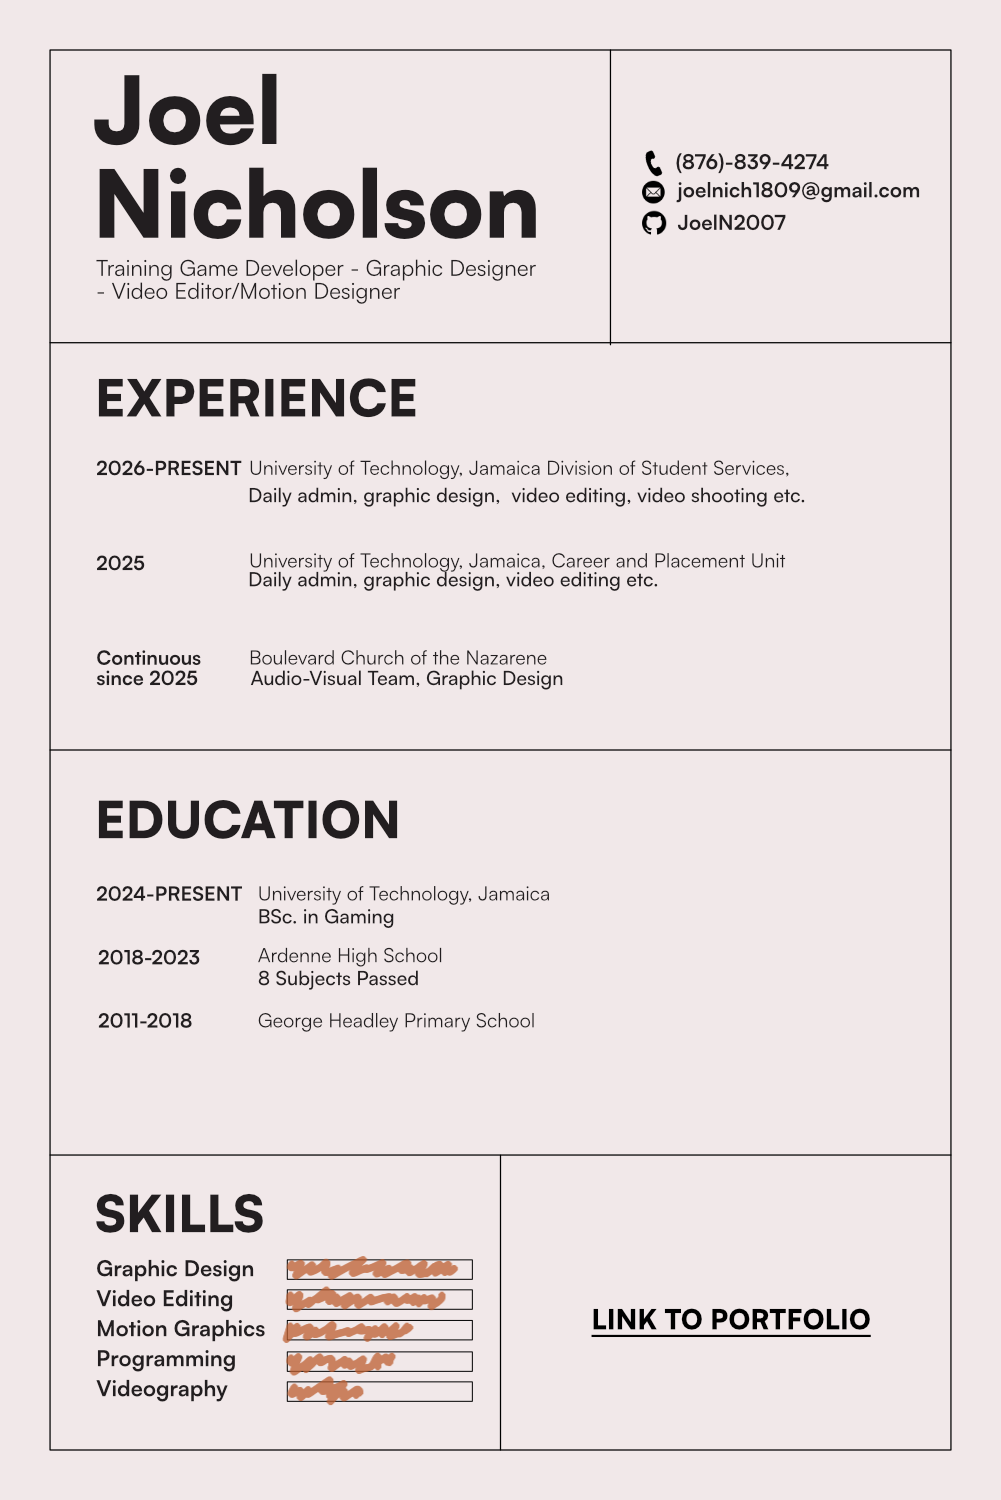
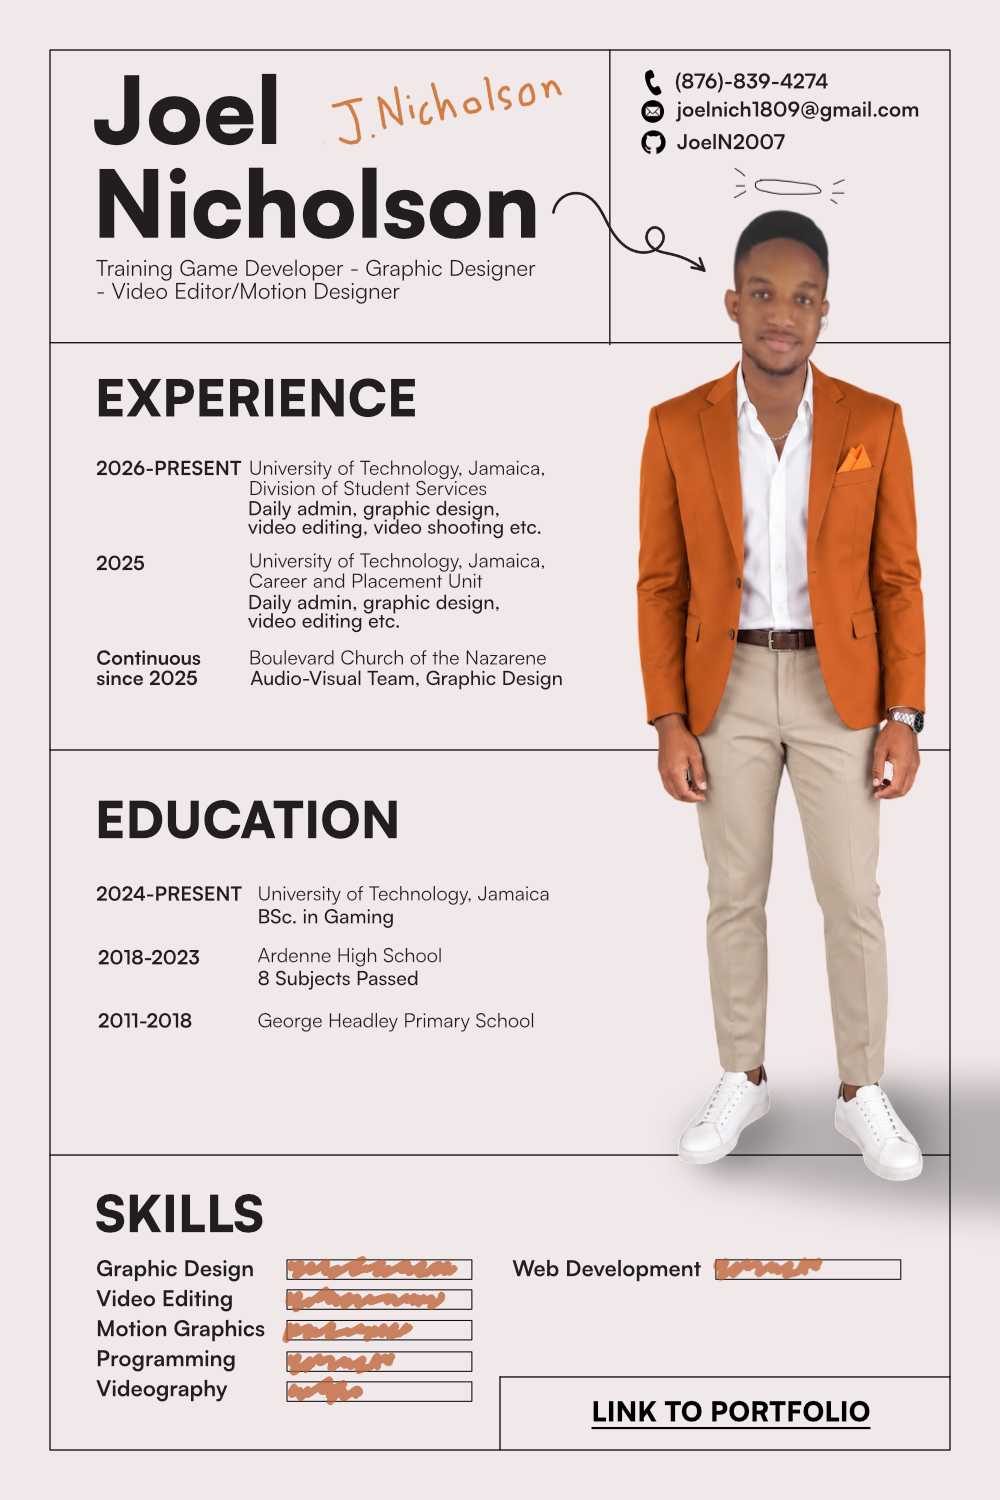
updated about me and contact section
added popout icons with name hover and same kinda ting for contact area

diff --git a/stylecss/style.css b/stylecss/style.css
@@ -44,7 +44,9 @@ img:hover{color: #eb8729;
 transform: scale(1.08);}
 
 .navi {
-    margin-left: -380px;
+    /* replaces the old margin-left:-380px hack so the nav can flow/wrap properly */
+    flex: 1;
+    padding-left: 60px;
 }
 
 .navi a {
@@ -266,4 +268,229 @@ footer{
 
 .lightbox-close:hover {
     color: #eb8729;
+}
+
+
+/* ===== SOFTWARE USED ICONS ===== */
+.software-grid {
+    display: flex;
+    flex-wrap: wrap;          /* left to right, then down */
+    gap: 22px;
+    padding: 20px 0 50px 0;
+}
+.software-item {
+    position: relative;
+    width: 48px;
+    height: 48px;
+}
+.software-item img {
+    width: 100%;
+    height: 100%;
+    object-fit: contain;
+    display: block;
+    transition: transform .25s ease, filter .25s ease;
+}
+.software-item:hover img {
+    transform: translateY(-5px) scale(1.2);
+    filter: drop-shadow(0 6px 6px rgba(0, 0, 0, 0.25));
+}
+/* hover label */
+.software-item::after {
+    content: attr(data-name);
+    position: absolute;
+    bottom: calc(100% + 12px);
+    left: 50%;
+    transform: translate(-50%, 6px);
+    background: #eb8729;
+    color: #fff;
+    font-size: 13px;
+    font-weight: 500;
+    white-space: nowrap;
+    padding: 4px 10px;
+    border-radius: 6px;
+    opacity: 0;
+    pointer-events: none;
+    transition: opacity .25s ease, transform .25s ease;
+    z-index: 5;
+}
+.software-item:hover::after {
+    opacity: 1;
+    transform: translate(-50%, 0);
+}
+@media (max-width: 768px) {
+    .software-grid { gap: 18px; }
+    .software-item { width: 42px; height: 42px; }
+}
+
+/* ===== CONTACT PAGE ===== */
+.contact-list {
+    display: flex;
+    flex-direction: column;
+    gap: 18px;
+    padding: 20px 0 30px 0;
+}
+.contact-row {
+    display: flex;
+    align-items: center;
+    gap: 16px;
+    color: #555;
+    text-decoration: none;
+    font-size: 1.4em;
+    font-weight: 500;
+    width: fit-content;
+    transition: color .3s, transform .3s;
+}
+.contact-row i {
+    width: 48px;
+    height: 48px;
+    flex-shrink: 0;
+    display: inline-flex;
+    align-items: center;
+    justify-content: center;
+    border-radius: 50%;
+    background: #eb8729;
+    color: #fff;
+    font-size: 1.1rem;
+    border: 2px solid #eb8729;
+    transition: .3s;
+}
+.contact-row:hover { color: #eb8729; transform: translateX(4px); }
+.contact-row:hover i { background: transparent; color: #eb8729; }
+
+.social-icons {
+    display: flex;
+    flex-wrap: wrap;
+    gap: 20px;
+    padding-bottom: 40px;
+}
+.social-icons a {
+    width: 64px;
+    height: 64px;
+    display: inline-flex;
+    align-items: center;
+    justify-content: center;
+    border-radius: 50%;
+    background: #eb8729;
+    color: #fff;
+    font-size: 30px;
+    text-decoration: none;
+    border: 2px solid #eb8729;
+    transition: .3s;
+}
+.social-icons a:hover {
+    background: transparent;
+    color: #eb8729;
+    transform: translateY(-4px);
+}
+
+@media (max-width: 768px) {
+    .contact-row { font-size: 1.05em; gap: 12px; }
+    .contact-row i { width: 42px; height: 42px; }
+    .contact-row span { overflow-wrap: anywhere; }
+    .social-icons a { width: 56px; height: 56px; font-size: 26px; }
+}
+
+
+
+
+/* =====================================================
+   RESPONSIVE
+   ===================================================== */
+
+/* safety nets for every screen size */
+html { -webkit-text-size-adjust: 100%; }
+body { overflow-x: hidden; }
+.content, .content p, .content dd, .content li { overflow-wrap: anywhere; }
+.content a { overflow-wrap: anywhere; }
+nav { flex-wrap: wrap; }
+
+/* no sticky "zoom" on touch screens */
+@media (hover: none) {
+    img:hover, .navi a:hover { transform: none; }
+}
+
+/* ---------- Laptops / small desktops ---------- */
+@media (max-width: 1200px) {
+    header, footer { padding: 25px 50px; }
+    .home { padding: 30px 50px; gap: 60px; }
+    .navi { padding-left: 30px; }
+}
+
+/* ---------- Tablets ---------- */
+@media (max-width: 900px) {
+    header, footer { padding: 20px 30px; }
+    .home { padding: 25px 30px; gap: 30px; }
+    .content h2 { font-size: 2.3em; }
+    .content h4 { font-size: 1.6em; }
+    .home-img { height: auto; max-height: 450px; margin-top: 0; }
+}
+
+/* ---------- Phones / small tablets ---------- */
+@media (max-width: 768px) {
+    /* header: logo + Contact on row 1, nav links on row 2 */
+    header {
+        flex-wrap: wrap;
+        padding: 14px 20px;
+        row-gap: 10px;
+    }
+    header > a:first-child { order: 1; }
+    .contactboxthing { order: 2; padding: 8px 24px; }
+    .navi {
+        order: 3;
+        flex: 0 0 100%;
+        width: 100%;
+        padding-left: 0;
+        display: flex;
+        flex-wrap: wrap;
+        justify-content: center;
+        gap: 6px 18px;
+        padding-top: 10px;
+        border-top: 1px solid #e5e5e5;
+    }
+    .navi a { margin-right: 0; font-size: 1em; }
+    .name { font-size: 1.7em; }
+
+    /* sections stack vertically */
+    .home {
+        flex-direction: column;
+        align-items: flex-start;
+        padding: 20px;
+        gap: 20px;
+    }
+    .home > div, .content { width: 100%; max-width: 100%; }
+    .home img { max-width: 100%; height: auto; }
+    .home-img { margin-top: 0; max-height: 380px; }
+    .home-img2 { height: auto; max-height: 280px; margin-top: 0; }
+    /* resume image: override the 50% width attributes in the HTML */
+    .home div > img { width: 100%; height: auto; }
+
+    .content h2 { font-size: 1.9em; line-height: 1.25; }
+    .content h4 { font-size: 1.35em; margin-bottom: 6px; }
+    .content p { padding: 8px 0 24px 0; }
+    .content ul { padding-left: 20px; }
+    dt { font-size: 1.2em; }
+    dd { padding: 8px 0 28px 0; }
+
+    .button a { padding: 10px 28px; }
+    footer { padding: 20px; text-align: center; }
+
+    /* work cards */
+    .card-container { margin-top: 10px; }
+    .card { width: calc(100% - 32px); max-width: 400px; margin: 14px 16px; }
+    .card img { height: 260px; }
+    .lightbox { padding: 12px; }
+    .lightbox-close { top: 8px; right: 16px; font-size: 38px; }
+}
+
+/* ---------- Small phones ---------- */
+@media (max-width: 400px) {
+    header { padding: 12px 14px; }
+    .navi { gap: 4px 12px; }
+    .navi a { font-size: .9em; }
+    .contactboxthing { padding: 7px 18px; font-size: .95em; }
+    .home { padding: 16px 14px; }
+    .content h2 { font-size: 1.6em; }
+    .content h4 { font-size: 1.2em; }
+    .card { width: calc(100% - 20px); margin: 12px 10px; }
+    .card img { height: 220px; }
 }

diff --git a/Codes/aboutme.html b/Codes/aboutme.html
@@ -24,38 +24,37 @@
         <a href="Contact.html" class="contactboxthing">Contact</a> 
        
     </header>
-<!-- <br/><br/><br/><br/><br/><br/><br/> -->
+<!-- <br/><br/><br/><br/><br/><br/><br/> 
   <hr><br/>
    <center><nav>
             <a href="#Three Strongest Traits">Three Strongest Traits</a> |
             <a href="#Hero and Quote">Hero and Quote</a> |
             <a href="#LLMs Text">LLMs Text</a> 
-        </nav></center><br/><hr>
+        </nav></center><br/>--> <hr>
 <section class="home">
         <div class="content">
-            <a name="Three Strongest Traits"></a>
-            <h2>My <span>Three Strongest Traits</span> and Their Academic Impact</h2>
-            <dl>
-            <dt>1. Persistence</dt>
-            <dd>This characteristic motivates me to complete challenging tasks and 
-                continue working when something is not clear to me. It increases 
-                my academic regularity since I do not give up my work just because 
-                it is difficult.</dd>
-            <dt>2. Graphic Design</dt>
-            <dd>It instructs me on visual hierarchy, organization, and awareness of 
-                the audience, which enables me to plan my essays and presentations 
-                more clearly. Making a messy design clean gives rise to my motivation of achieving 
-                order in my academic endeavors.</dd>
-            <dt>3. Video Editing</dt>
-            <dd>It develops the ability to be patient and construct narratives. Hence,
-                 my writing improves considerably. Furthermore, when I edit,
-                  it helps me to express my creativity thus relieving me of the academic burden.</dd>
-                  </dl>
-              </div>  
-            
+            <h3>I design, edit and create things<br/>
+                I’m working toward a career in game development while being like a Jack-of-all-trades having skills that one person probably wouldn't have: design, video, animation, and web etc.
+
+            </h3><br/>
+            <a name="Software Used"></a>
+            <h2><span>Things</span> Used</h2>
+            <div class="software-grid">
+                <div class="software-item" data-name="Affinity"><img src="../Assets/software/affinity.png" alt="Affinity"></div>
+                <div class="software-item" data-name="DaVinci Resolve"><img src="../Assets/software/davinci-resolve.png" alt="DaVinci Resolve"></div>
+                <div class="software-item" data-name="Cavalry"><img src="../Assets/software/cavalry.png" alt="Cavalry"></div>
+                <div class="software-item" data-name="Krita"><img src="../Assets/software/krita.png" alt="Krita"></div>
+                <div class="software-item" data-name="Tahoma2D"><img src="../Assets/software/tahoma2d.png" alt="Tahoma2D"></div>
+                <div class="software-item" data-name="Canva"><img src="../Assets/software/canva.png" alt="Canva"></div>
+                <div class="software-item" data-name="Unity"><img src="../Assets/software/unity.png" alt="Unity"></div>
+                <div class="software-item" data-name="C++"><img src="../Assets/software/cplusplus.png" alt="C++"></div>
+                <div class="software-item" data-name="Python"><img src="../Assets/software/python.png" alt="Python"></div>
+                <div class="software-item" data-name="JavaScript"><img src="../Assets/software/javascript.png" alt="JavaScript"></div>
+                <div class="software-item" data-name="C#"><img src="../Assets/software/csharp.png" alt="C#"></div>
+            </div>
+        </div>
     </section>
      <hr>
-   
 <footer>
 
     

diff --git a/Codes/Contact.html b/Codes/Contact.html
@@ -27,14 +27,26 @@
 <!-- <br/><br/><br/><br/><br/><br/><br/> --><hr>
 <section class="home">
         <div class="content">
-       <!--    <<i class="fa-brands fa-github" style="font-size: 48px;"></i>
-    <img src="" alt="" height="100%" width="100%" /></a>  -->
-    <h4><span>Tel:</span> (876-839-4274)</h4>   
-    <h4><span>Email:</span> joelnich1809@gmail.com</h4>   
-      <a href="https://github.com/Joel-Nicholson" target="_blank"><i class="fa-brands fa-github" style="font-size: 48px;"></i></a>
-              </div>  
-            
+            <h2>Get in <span>Touch</span></h2>
+
+            <div class="contact-list">
+                <a href="tel:+18768394274" class="contact-row">
+                    <i class="fa-solid fa-phone"></i>
+                    <span>(876) 839-4274</span>
+                </a>
+                <a href="mailto:joelnich1809@gmail.com" class="contact-row">
+                    <i class="fa-solid fa-envelope"></i>
+                    <span>joelnich1809@gmail.com</span>
+                </a>
+            </div>
+
+            <div class="social-icons">
+                <a href="https://github.com/Joel-Nicholson" target="_blank" rel="noopener" aria-label="GitHub" title="GitHub"><i class="fa-brands fa-github"></i></a>
+                <a href="https://www.instagram.com/joel.n._" target="_blank" rel="noopener" aria-label="Instagram" title="Instagram"><i class="fa-brands fa-instagram"></i></a>
+            </div>
+        </div>
     </section>
+
 
 <footer>
 

diff --git a/Codes/mywork.html b/Codes/mywork.html
@@ -39,7 +39,7 @@
          <img src="../Assets/myownwork/MentBookletCover.png" alt="WOW Book Cover">
              <div class="card-content">  
               <h3>Mentorship Programme Booklet</h3>
-              <p>A Manual flipbook made for UTech, Ja. Mentorship Programme</p>
+              <p>A flipbook manual made for UTech, Ja. Mentorship Programme</p>
               
                 <a href="https://shr.pn/MentorshipProgrammeBooklet" target="_blank" class="btn">See Full Booklet</a>
                </div>
